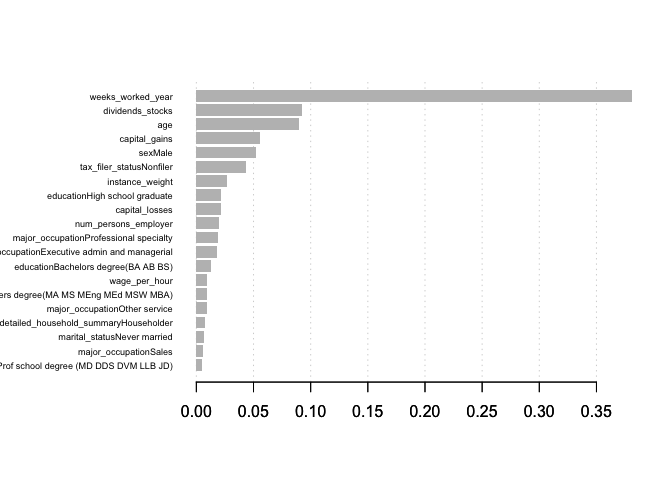
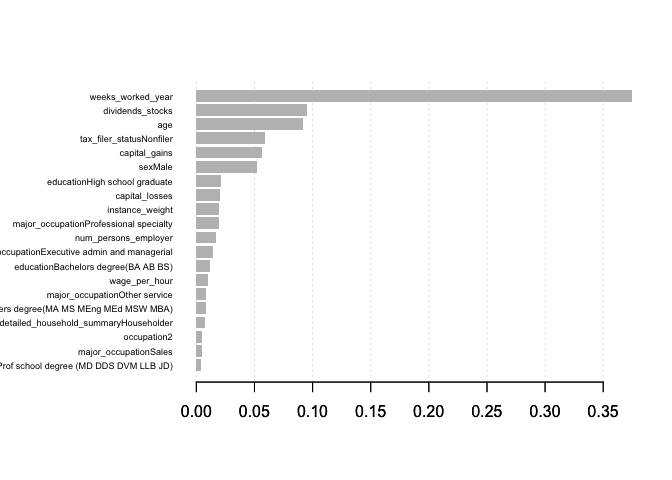
Edit importance figure and correct couple of typos

diff --git a/README.md b/README.md
@@ -332,7 +332,7 @@ grid.arrange(do.call(arrangeGrob, plots[c("education", "labor_union", "same_hous
 
 <img src="main_files/figure-markdown_github/plot_percentages_2-1.png" style="display: block; margin: auto;" />
 
-In the opposite, if we show percentages of each target bucket by category:
+In the opposite, if we show percentages of each target bucketed by category:
 
 ``` r
 require(lazyeval)
@@ -363,7 +363,7 @@ grid.arrange(do.call(arrangeGrob, plots[c("education", "labor_union", "same_hous
 
 <img src="main_files/figure-markdown_github/plot_percentages_bucket-1.png" style="display: block; margin: auto;" />
 
-The dataset being very unbalance no mater the category we choose the split it. However, we clearly that the share of people in the +$50k bucket is much higher for people with higher education. Actually, for some particular education levels, it is more than 50% of the population (PhD and Prof school degree).
+The dataset being very unbalance no mater the variable we choose the split it by. However, we clearly that the share of people in the +$50k bucket is much higher for people with higher education. Actually, for some particular education levels, it is more than 50% of the population (PhD and Prof school degree).
 
 You can plot all the charts, 3 by 3 running:
 
@@ -964,7 +964,7 @@ Analyse results
 One interesting thing to see is to get a notion of the importance of each variable in the result.
 
 ``` r
-importance <- xgb.importance(feature_names = colnames(train$data), model = bst_2)
+importance <- xgb.importance(feature_names = colnames(train$data), model = bst_opt)
 xgb.plot.importance(importance_matrix = importance, top_n = 20)
 ```
 
